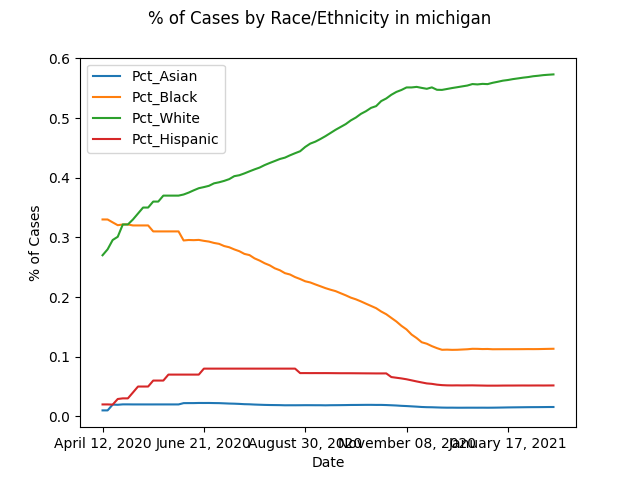
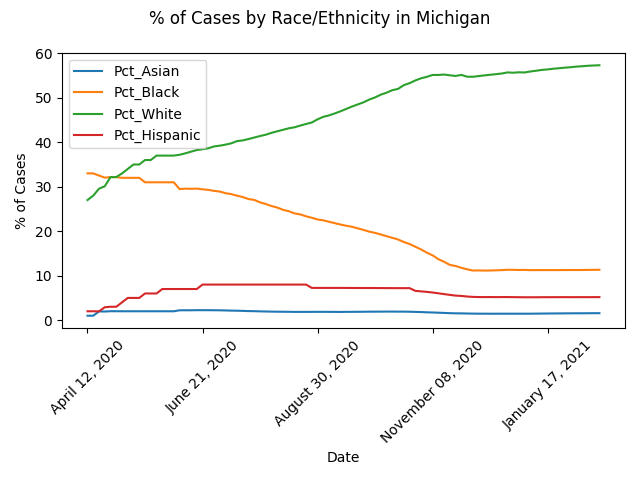
All files

diff --git a/Sid/Race_Effects.py b/Sid/Race_Effects.py
@@ -15,47 +15,21 @@ def analyze(df, state):
 
     curr_df = df[['Date', 'Cases_Total', 'Cases_Asian', 'Cases_Black', 'Cases_White', 'Cases_Ethnicity_Hispanic']].iloc[::-1].set_index(df.index)
     curr_df['Date'] = curr_df['Date'].apply(return_date)
-    curr_df['Pct_Asian'] = curr_df['Cases_Asian'] / curr_df['Cases_Total']
-    curr_df['Pct_Black'] = curr_df['Cases_Black'] / curr_df['Cases_Total']
-    curr_df['Pct_White'] = curr_df['Cases_White'] / curr_df['Cases_Total']
-    curr_df['Pct_Hispanic'] = curr_df['Cases_Ethnicity_Hispanic'] / curr_df['Cases_Total']
+    curr_df['Pct_Asian'] = curr_df['Cases_Asian'] / curr_df['Cases_Total'] * 100
+    curr_df['Pct_Black'] = curr_df['Cases_Black'] / curr_df['Cases_Total'] * 100
+    curr_df['Pct_White'] = curr_df['Cases_White'] / curr_df['Cases_Total'] * 100
+    curr_df['Pct_Hispanic'] = curr_df['Cases_Ethnicity_Hispanic'] / curr_df['Cases_Total'] * 100
     curr_df.drop(['Cases_Total', 'Cases_Asian', 'Cases_Black', 'Cases_White', 'Cases_Ethnicity_Hispanic'], inplace=True, axis=1)
 
     curr_df.plot(x='Date', y=['Pct_Asian', 'Pct_Black', 'Pct_White', 'Pct_Hispanic'])
-    plt.suptitle('% of Cases by Race/Ethnicity in ' + state)
+    plt.suptitle('% of Cases by Race/Ethnicity in ' + state.capitalize())
     plt.xlabel('Date')
     plt.ylabel('% of Cases')
+    plt.xticks(rotation = 45)
+    plt.tight_layout()
 
-    plt.savefig('Plots/' + state + '.png')
+    plt.savefig('Plots/' + state.capitalize() + '.png')
 
-'''
-df = pd.read_csv('~/Documents/Citadel Datathons/Spring 2021 Datathon/montana-history.csv')
-
-mt_df = df[['date', 'death']].iloc[::-1].set_index(df.index)
-mt_df = mt_df.iloc[51:] # 2020-04-26
-mt_df.rename(columns={'death': 'mt_death'}, inplace=True)
-
-joined_df = curr_df.set_index('date').join(mt_df.set_index('date'))
-
-print(joined_df)
-
-
-overall_pearson_r = curr_df.corr()
-print(f"Pandas computed Pearson r: {overall_pearson_r}")
-# out: Pandas computed Pearson r: 0.2058774513561943
-
-r, p = stats.pearsonr(df.dropna()['S1_Joy'], df.dropna()['S2_Joy'])
-print(f"Scipy computed Pearson r: {r} and p-value: {p}")
-# out: Scipy computed Pearson r: 0.20587745135619354 and p-value: 3.7902989479463397e-51
-
-# Compute rolling window synchrony
-f, ax=plt.subplots(figsize=(7,3))
-curr_df.rolling(window=30,center=True).median().plot(ax=ax)
-ax.set(xlabel='Time',ylabel='Pearson r')
-ax.set(title=f"Overall Pearson r = {np.round(overall_pearson_r,2)}")
-
-plt.show()
-'''
 
 files = [f for f in os.listdir('.') if os.path.isfile(f)]
 

diff --git a/Sid/Adjusted_Race_Deaths.py b/Sid/Adjusted_Race_Deaths.py
@@ -1,0 +1,48 @@
+import pandas as pd
+import numpy as np
+import matplotlib.pyplot as plt
+import seaborn as sn
+import scipy.stats as stats
+import datetime
+import os
+
+race_breakdown_df = pd.read_csv('~/Documents/Citadel Datathons/Spring 2021 Datathon/Sid/Racial Breakdown/racial_breakdown_by_state.csv')
+race_breakdown_df['Location'] = race_breakdown_df['Location'].str.lower()
+
+def analyze(df, state):
+    def return_date(string):
+        string = str(string)
+        return datetime.date(int(string[:4]), int(string[4:6]), int(string[6:])).strftime('%B %d, %Y')
+    
+    asian_pct_in_state = race_breakdown_df.loc[race_breakdown_df['Location'] == state, 'Asian'].item()
+    black_pct_in_state = race_breakdown_df.loc[race_breakdown_df['Location'] == state, 'Black'].item()
+    white_pct_in_state = race_breakdown_df.loc[race_breakdown_df['Location'] == state, 'White'].item()
+    hispanic_pct_in_state = race_breakdown_df.loc[race_breakdown_df['Location'] == state, 'Hispanic'].item()
+
+    curr_df = df[['Date', 'Deaths_Total', 'Deaths_Asian', 'Deaths_Black', 'Deaths_White', 'Deaths_Ethnicity_Hispanic']].iloc[::-1].set_index(df.index)
+    curr_df['Date'] = curr_df['Date'].apply(return_date)
+    curr_df['Pct_Asian'] = (curr_df['Deaths_Asian'] / curr_df['Deaths_Total']) / asian_pct_in_state * 100
+    curr_df['Pct_Black'] = curr_df['Deaths_Black'] / curr_df['Deaths_Total'] / black_pct_in_state * 100
+    curr_df['Pct_White'] = curr_df['Deaths_White'] / curr_df['Deaths_Total'] / white_pct_in_state * 100
+    curr_df['Pct_Hispanic'] = curr_df['Deaths_Ethnicity_Hispanic'] / curr_df['Deaths_Total'] / hispanic_pct_in_state * 100
+    curr_df.drop(['Deaths_Total', 'Deaths_Asian', 'Deaths_Black', 'Deaths_White', 'Deaths_Ethnicity_Hispanic'], inplace=True, axis=1)
+
+    curr_df.plot(x='Date', y=['Pct_Asian', 'Pct_Black', 'Pct_White', 'Pct_Hispanic'])
+    plt.suptitle('% of Deaths by Race/Ethnicity in ' + state.capitalize() + ' (Adjusted)')
+    plt.xlabel('Date')
+    plt.ylabel('% of Deaths Relative to Expectation')
+    plt.xticks(rotation = 45)
+    plt.tight_layout()
+
+
+    plt.savefig('Adjusted Death Plots/' + state.capitalize() + '.png')
+
+
+files = [f for f in os.listdir('.') if os.path.isfile(f)]
+
+for f in files:
+    filename, ext = os.path.splitext(f)
+    state = filename.split('-')[0]
+    if ext == '.csv':
+        df = pd.read_csv(f)
+        analyze(df, state)

diff --git a/Sid/Adjusted_Race_Effects.py b/Sid/Adjusted_Race_Effects.py
@@ -1,0 +1,48 @@
+import pandas as pd
+import numpy as np
+import matplotlib.pyplot as plt
+import seaborn as sn
+import scipy.stats as stats
+import datetime
+import os
+
+race_breakdown_df = pd.read_csv('~/Documents/Citadel Datathons/Spring 2021 Datathon/Sid/Racial Breakdown/racial_breakdown_by_state.csv')
+race_breakdown_df['Location'] = race_breakdown_df['Location'].str.lower()
+
+def analyze(df, state):
+    def return_date(string):
+        string = str(string)
+        return datetime.date(int(string[:4]), int(string[4:6]), int(string[6:])).strftime('%B %d, %Y')
+    
+    asian_pct_in_state = race_breakdown_df.loc[race_breakdown_df['Location'] == state, 'Asian'].item()
+    black_pct_in_state = race_breakdown_df.loc[race_breakdown_df['Location'] == state, 'Black'].item()
+    white_pct_in_state = race_breakdown_df.loc[race_breakdown_df['Location'] == state, 'White'].item()
+    hispanic_pct_in_state = race_breakdown_df.loc[race_breakdown_df['Location'] == state, 'Hispanic'].item()
+
+    curr_df = df[['Date', 'Cases_Total', 'Cases_Asian', 'Cases_Black', 'Cases_White', 'Cases_Ethnicity_Hispanic']].iloc[::-1].set_index(df.index)
+    curr_df['Date'] = curr_df['Date'].apply(return_date)
+    curr_df['Pct_Asian'] = (curr_df['Cases_Asian'] / curr_df['Cases_Total']) / asian_pct_in_state * 100
+    curr_df['Pct_Black'] = curr_df['Cases_Black'] / curr_df['Cases_Total'] / black_pct_in_state * 100
+    curr_df['Pct_White'] = curr_df['Cases_White'] / curr_df['Cases_Total'] / white_pct_in_state * 100
+    curr_df['Pct_Hispanic'] = curr_df['Cases_Ethnicity_Hispanic'] / curr_df['Cases_Total'] / hispanic_pct_in_state * 100
+    curr_df.drop(['Cases_Total', 'Cases_Asian', 'Cases_Black', 'Cases_White', 'Cases_Ethnicity_Hispanic'], inplace=True, axis=1)
+
+    curr_df.plot(x='Date', y=['Pct_Asian', 'Pct_Black', 'Pct_White', 'Pct_Hispanic'])
+    plt.suptitle('% of Cases by Race/Ethnicity in ' + state.capitalize() + ' (Adjusted)')
+    plt.xlabel('Date')
+    plt.ylabel('% of Cases Relative to Expectation')
+    plt.xticks(rotation = 45)
+    plt.tight_layout()
+
+
+    plt.savefig('Adjusted Plots/' + state.capitalize() + '.png')
+
+
+files = [f for f in os.listdir('.') if os.path.isfile(f)]
+
+for f in files:
+    filename, ext = os.path.splitext(f)
+    state = filename.split('-')[0]
+    if ext == '.csv':
+        df = pd.read_csv(f)
+        analyze(df, state)

diff --git a/Sid/EDA.py b/Sid/EDA.py
@@ -4,7 +4,7 @@ import matplotlib.pyplot as plt
 import seaborn as sn
 import scipy.stats as stats
 
-df = pd.read_csv('~/Documents/Citadel Datathons/Spring 2021 Datathon/Datathon Materials/3_covidtracking/alabama-history.csv')
+df = pd.read_csv('~/Documents/Citadel Datathons/Spring 2021 Datathon/Sid/Datathon Materials/3_covidtracking/alabama-history.csv')
 
 def returnGrade(letter):
     dataGrades = {'A': 3, 'B': 2, 'C': 1, 'F': 0}
@@ -15,13 +15,14 @@ df['dataQualityAsNum'] = df.apply(lambda row: returnGrade(row.dataQualityGrade),
 
 df = df.dropna(axis=1,how='all')
 
-dropCols = ['hospitalizedCumulative', 'negative', 'negativeIncrease', 'negativeTestsAntibody', 'negativeTestsPeopleAntibody', 'negativeTestsViral', 'onVentilatorCumulative', 'onVentilatorCurrently', 'positiveScore', 'totalTestEncountersViralIncrease', 'totalTestsPeopleViral', 'totalTestsPeopleViralIncrease', 'totalTestsViralIncrease']
-df = df.drop(columns=[c for c in dropCols if c in df.columns])
+df = df[['date', 'death', 'deathConfirmed', 'deathIncrease', 'positive', 'positiveIncrease', 'totalTestResults', 'totalTestResultsIncrease', 'dataQualityAsNum']]
+
 print(df.head())
 
 corrMatrix = df.corr()
 sn.heatmap(corrMatrix, annot=True)
-plt.show()
+plt.tight_layout()
+plt.savefig('CorrMatrix.png')
 
 '''
 al_df = df[['dataQualityGrade', 'positive']].iloc[::-1].set_index(df.index)
